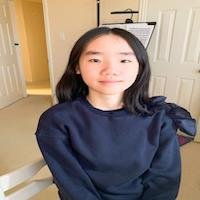
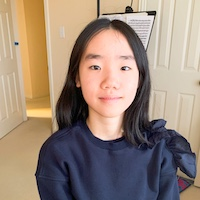
finalizing website

diff --git a/index.html b/index.html
@@ -26,7 +26,7 @@
             <div class="collapse navbar-collapse" id="navbarResponsive">
                 <ul class="navbar-nav">
                     <li class="nav-item"><a class="nav-link js-scroll-trigger" href="#Home">Home</a></li>
-                    <li class="nav-item"><a class="nav-link js-scroll-trigger" href="#Members">Members</a></li>
+                    <li class="nav-item"><a class="nav-link js-scroll-trigger"href="#Members">Members</a></li>
                     <li class="nav-item"><a class="nav-link js-scroll-trigger" href="#Robot">Robot</a></li>
                     <li class="nav-item"><a class="nav-link js-scroll-trigger" href="#Events">Events</a></li>
                     <li class="nav-item"><a class="nav-link js-scroll-trigger" href="#Awards">Awards</a></li>
@@ -44,9 +44,9 @@
                     </h1>
                     <div class="subheading mb-5">
                         A second-year FTC team aspiring greatness ·
-                        <a href="mailto:name@email.com">name@email.com</a>
+                        <a href="mailto:hxyhebe@gmail.com">hxyhebe@gmail.com</a>
                     </div>
-                    <p class="lead mb-5">Team Bio</p>
+                    <p class="lead mb-5">-</p>
                     <div class="social-icons">
                         <a class="social-icon" href="#!"><i class="fab fa-instagram"></i></a>
                         <a class="social-icon" href="#!"><i class="fab fa-github"></i></a>
@@ -73,6 +73,7 @@
                     <div class="d-flex flex-column flex-md-row justify-content-between mb-5">
                         <div class="flex-grow-1">
                             <h3 class="mb-0">Hebe He</h3>
+                            <span class="d-none d-lg-block"><img class="img-fluid img-profile" src="assets/img/hebePortrait.jpeg" alt="..." /></span>
                             <div class="subheading mb-3">Programmer·Driver</div>
                             <div>Bio:</div>
                             <p>Hello, I’m Hebe. I’m currently a freshman at Jasper High School. This is my third year doing the FIRST challenge, including one year of FLL and two years of FTC. Outside of robotics, my hobbies includes drawing, watching anime or tv series, and playing clarinet.</p>
